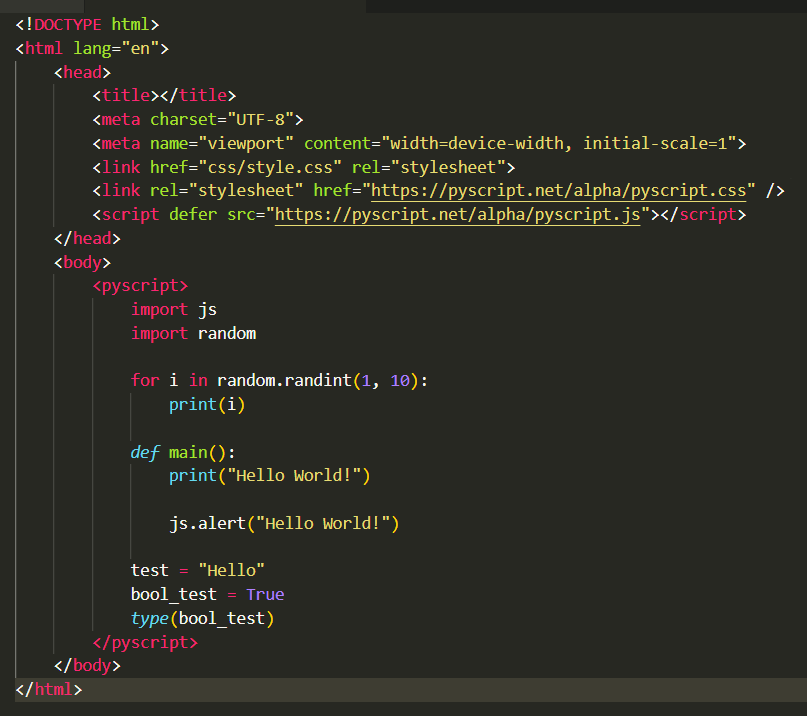
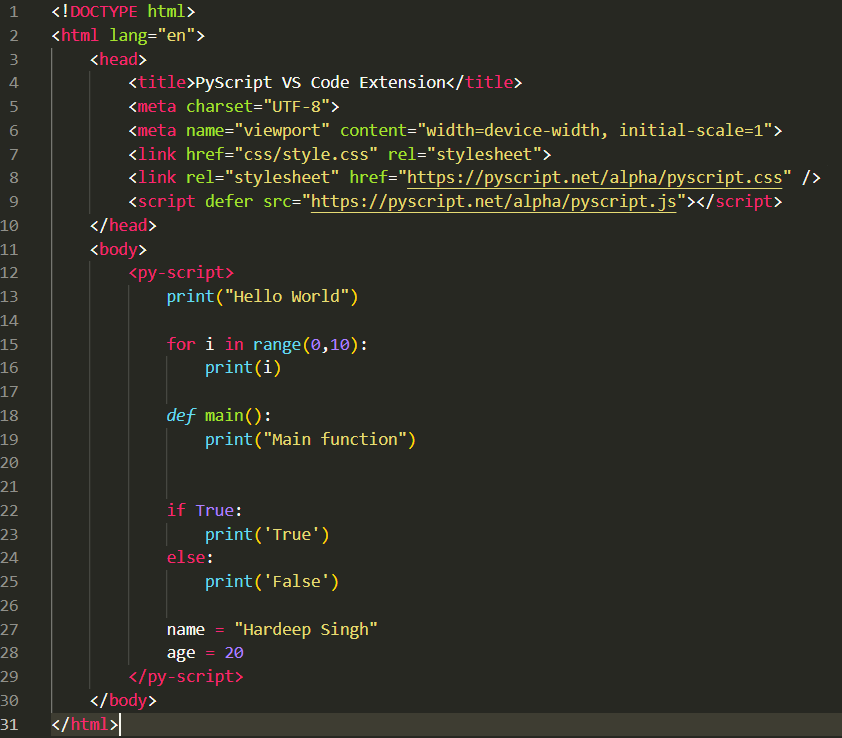
fixed major issue

Changed region(s): [[0.0, 0.0, 0.9603, 1.0]]

diff --git a/README.md b/README.md
@@ -15,8 +15,8 @@
 ## Example Snippets
 `pyscript` will add the following snippets:
 ```
-<pyscript>
-</pyscript>
+<py-script>
+</py-script>
 ```
 
 `pycdn` will add the following snippets:
